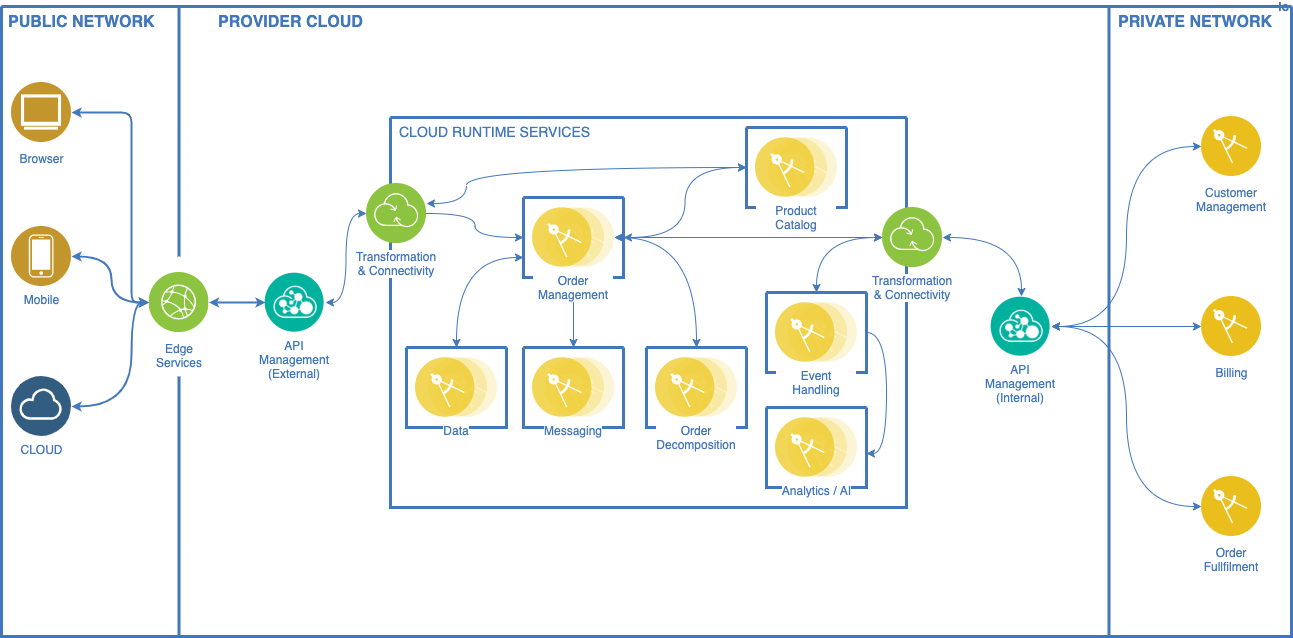
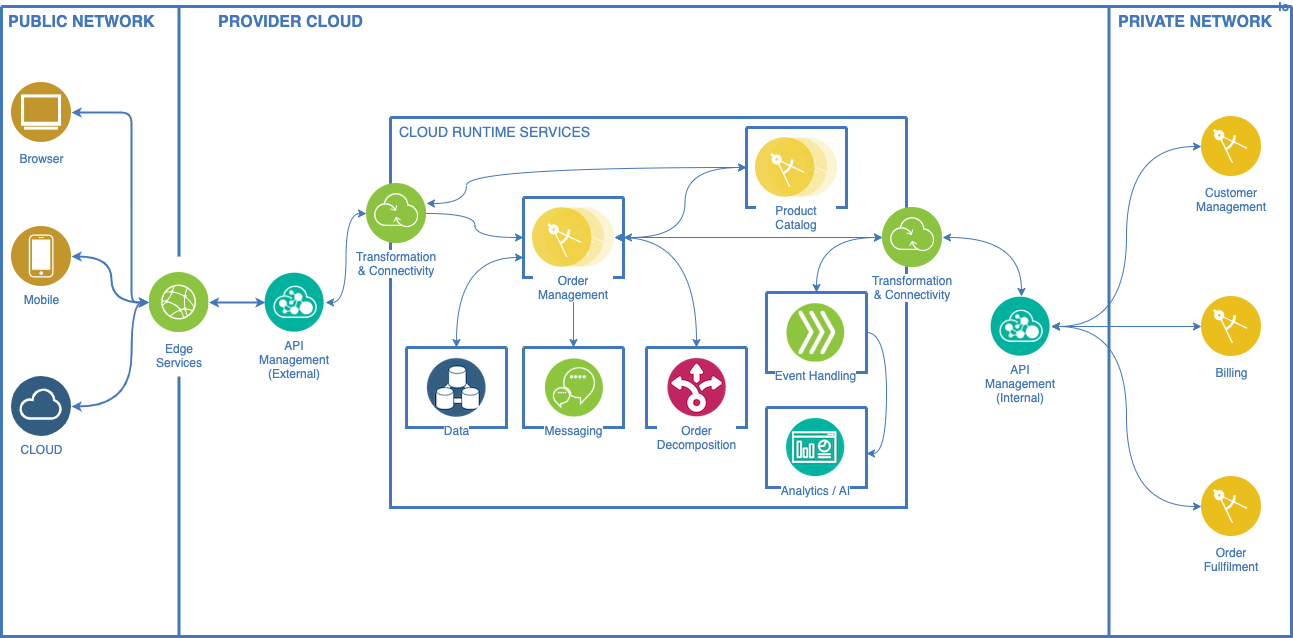
Updated documentation
Updated reference architecture, Cloud Pak architecture, solution overview and navigation.

Changed region(s): [[0.3094, 0.4765, 0.6806, 0.7743]]

diff --git a/code/staging/index.md b/code/staging/index.md
@@ -13,14 +13,8 @@ To date, 71 of the world’s leading communications service providers (CSPs) and
     
     **Marisa Viveros, VP Strategy & Offerings – Telecom, Media and Entertainment Industries**
 
-This document describes the Open API Accelerator for Telco built by IBM Expertise Connect. The Accelerator is a Cloud-native asset based on [IBM Cloud Pak for Integration](https://www.ibm.com/cloud/cloud-pak-for-integration)  and leverages [IBM Cloud Pak for Data](https://www.ibm.com/products/cloud-pak-for-data) for AI infusion.
-
-- The TM Forum APIs are exposed through API Connect and DataPower
-- Routing and data transformation implemented in IBM App Connect for Enterprise (ACE).
-- IBM Event Streams manages order history, in-flight order events and notifications
-- Sterling Order Management pipelines are used for Order state management
-- Order decomposition and execution build plan decision system is provided by IBM Operation Decision Manager (ODM)
+This document describes the Open API Accelerator for Telco built by IBM Expertise Connect. The Accelerator is a Cloud-native asset based on solutions from several [IBM Cloud Paks](https://www.ibm.com/cloud/paks).
 
 The Open API Accelerator implements the TM Forum specifications for Product Ordering Management and provides consistent interactions with Order Negotiation systems such as Siebel and Salesforce Vlocity. Future releases will implement additional TM Forum Business Operations specifications.
 
-This asset also provides a framework for existing customers who use the Telco Pack to move CSP workloads to the Cloud. Components of this Accelerator have already been used to speed up delivery of a Proof of Concept at Saudi Telco Company.
+This asset also provides a framework for existing customers who use the Telco Pack to move CSP workloads to the Cloud. Components of this Accelerator have already been used to speed up delivery of a Proof of Concept at a Saudi Telco company.

diff --git a/code/staging/hybrid_ref-arch.md b/code/staging/hybrid_ref-arch.md
@@ -36,14 +36,16 @@ The mapping of integration architecture capabilities to Cloud Pak capabilities i
  Event Streaming | Event Streams
  High-speed Data Transfer | Aspera High Speed Transfer Server  
 
-This architecture is open and can be extended as needed. As an example, components of the Data and AI reference architecture can be used to add analytics and AI to the solution architecture.
+This architecture is open and can be extended as needed. As an example, components of the Data and AI reference architecture can be used to add analytics and infuse AI.
 
-The Cloud Pak Architecture section explains how architecture capabilities are provided by IBM as part of the IBM Cloud Pak solutions.
+The [Cloud Pak Architecture section](cloud_pak_arch.md) explains how architecture capabilities are provided by IBM as part of the IBM Cloud Pak solutions.
 
-The Solution Design section describes in detail how this generic architecture is specialized by the *Accelerator for Telco* to enable the specific scenarios required by solutions leveraging the TMF Open APIs.
+The [Solution Overview section](solution_overview.md) describes in detail how this generic architecture is specialized by the *Accelerator for Telco* to enable the specific scenarios required by solutions leveraging the TMF Open APIs.
 
 *References:*
 
 [Integration Reference Architecture](https://www.ibm.com/cloud/architecture/architectures/modern-integration/reference-architecture/)
 
 [Data and AI Reference Architecture](https://www.ibm.com/cloud/architecture/architectures/dataAIArchitecture/reference-architecture)
+
+[Business Automation Reference Architecture](https://www.ibm.com/cloud/architecture/architectures/dba-architecture/reference-architecture)

diff --git a/code/staging/solution_overview.md b/code/staging/solution_overview.md
@@ -2,6 +2,12 @@
 
 ![Order Management](img/solution-overview.png)
 
+- The TM Forum APIs are exposed through API Connect and DataPower
+- Routing and data transformation implemented in IBM App Connect for Enterprise (ACE).
+- IBM Event Streams manages order history, in-flight order events and notifications
+- Sterling Order Management pipelines are used for Order state management
+- Order decomposition and execution build plan decision system is provided by IBM Operation Decision Manager (ODM)
+
 As a realization of the Hybrid Reference Architecture, this asset implements an end-to-end Order Management process of a telco Communications Service Provider. Applications such as the Product Catalog, Order Management System, Database and Messaging, run in isolated Kubernetes deployments and can reside in the Provider or Private Cloud. The external API Gateway serves TMF Open APIs to omni-channel consumers and provides the necessary security and governance. Data transformation and routing are handled by App Connect Enterprise.
 
 Order Management process events are exposed through a Hub/Listener event model. Topics in Event Streams listens to events generated during the execution of the order process which are then forwarded to an analytics engine to provide insights and dashboards.

diff --git a/code/staging/cloud_pak_arch.md b/code/staging/cloud_pak_arch.md
@@ -11,4 +11,5 @@ As of today, the Automation Foundation layer is part of four IBM Cloud Paks, wit
 The final layer in the Cloud Pak architecture is the *solution layer* with the respective solutions of a given Cloud Pak (like IBM API Connect and IBM App Connect Enterprise in IBM Cloud Pak for Integration).  
 
 As mentioned earlier, the Accelerator for Telco is implemented using various Cloud Pak solutions.  
-The *Integrator Solution Overview* describes those components in more detail.
+
+The [Integrator Solution Overview](solution_overview.md) describes those components in more detail.
